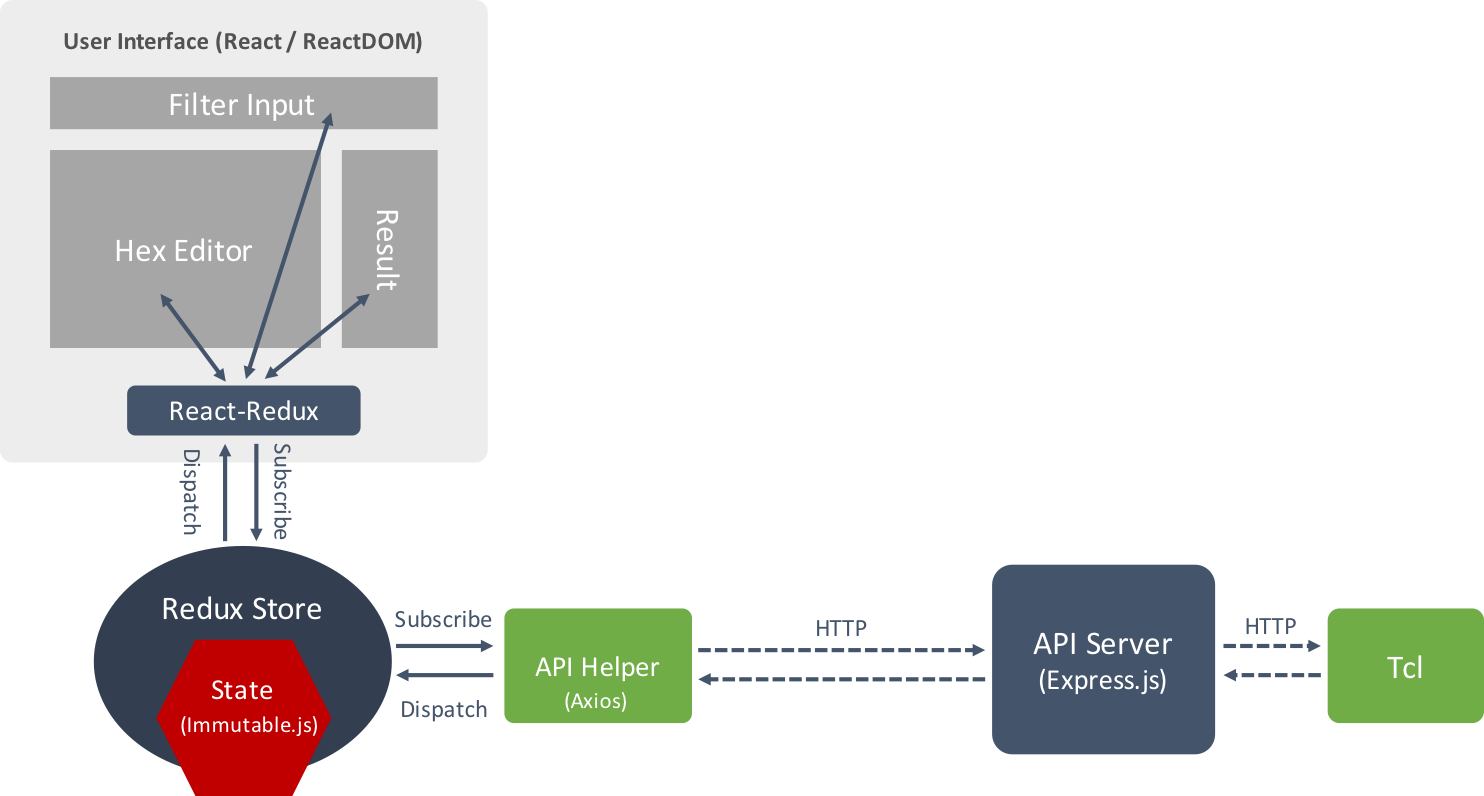
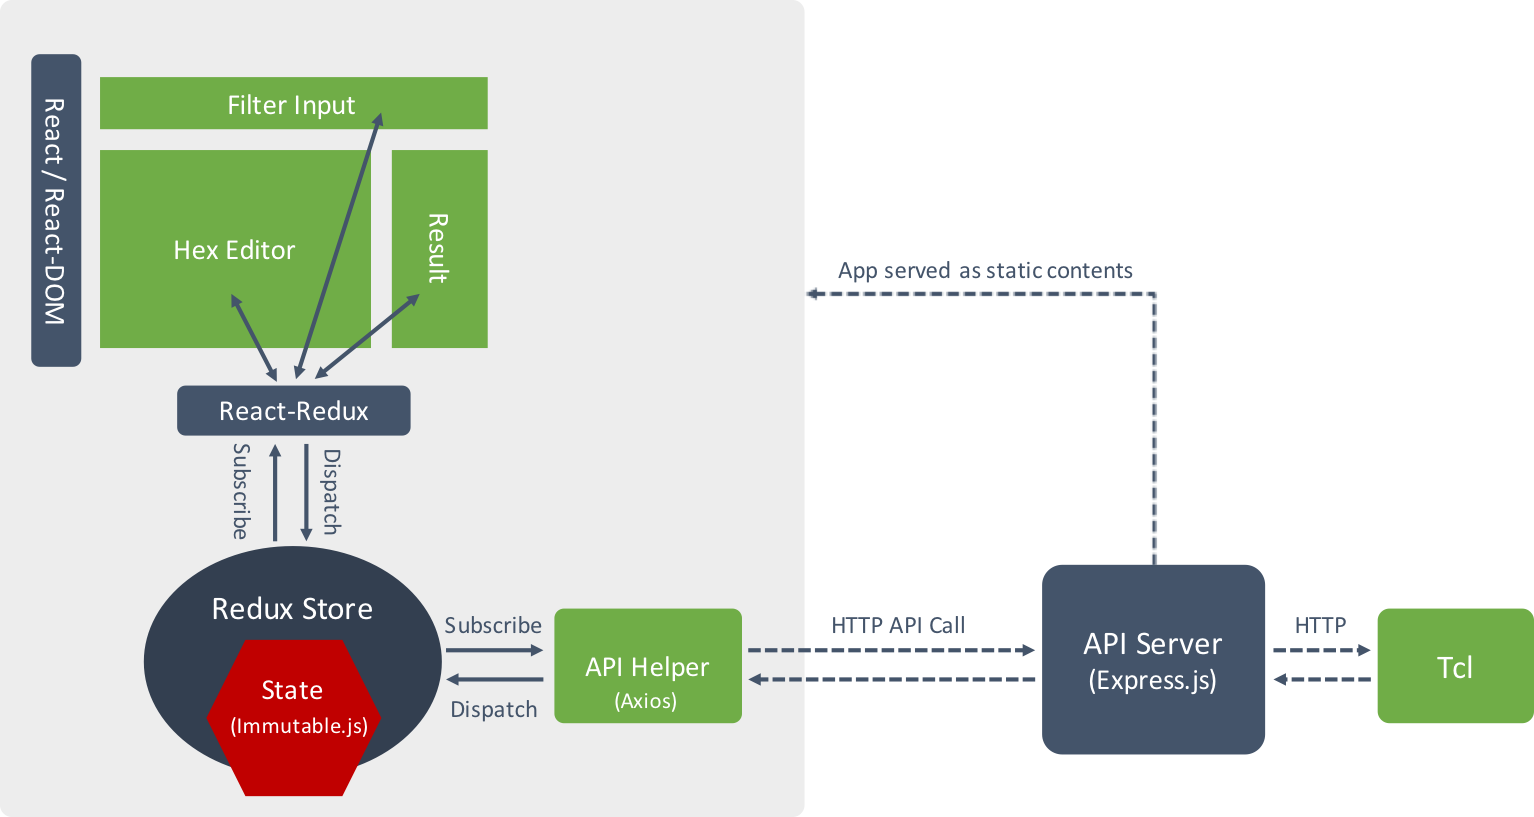
Add block diagram to README.md

diff --git a/README.md b/README.md
@@ -14,13 +14,17 @@ The primary goal of this project is to learn to write in "[React](https://facebo
 
 That said, Tcl's binary scan command has been always something I wanted to visualize and understand what's going on behind the scene especially when I write network protocol dissectors in Tcl. Although official reference guide made it really clear on how it works, it will be a great tool to get yourself "ah ha" into binary command, and I myself learned a lot from using this tool!
 
-## Backend - An express-base simple API server (+Tclsh)
+## Design
 
-Backend is implemented in `Tcl` + `express.js` that provides a simple API layer. Front end app is also being served by the express.js application as a static html / css /js files.
+![Design](https://raw.githubusercontent.com/shuntksh/binaryscanr/master/assets/highlevel_design.gif)
 
-## Frontend - An react-base "editor" application
+### Frontend - An react-base "editor" application
 
 It consist of two main components. One is to edit tcl filter string called "TaggableInput" and the other to edit hexadecimal input called "HexEditor". Both are connected to a redux store using "react-redux" npm module. API calls are handled by helper functions that subscribe to the Redux store without using Redux middleware.
+
+### Backend - An express-base simple API server (+Tclsh)
+
+Backend is implemented in `Tcl` + `express.js` that provides a simple API layer. Front end app is also being served by the express.js application as a static html / css /js files.
 
 ## How to build
 
